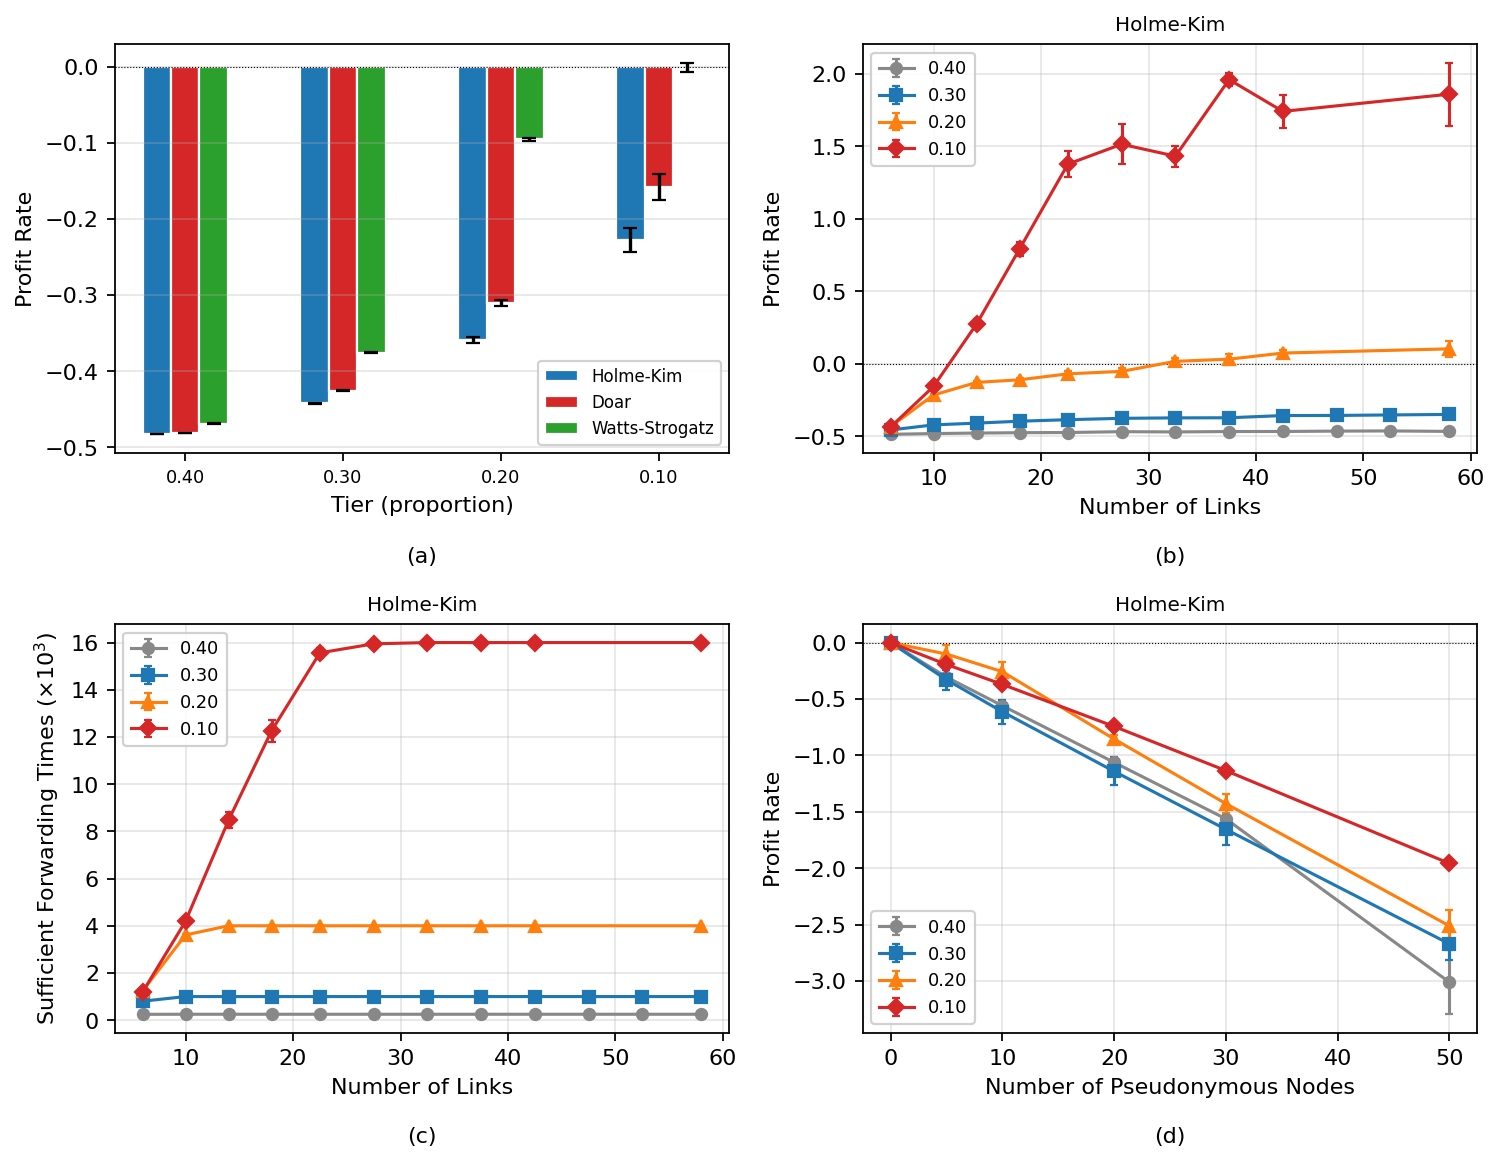
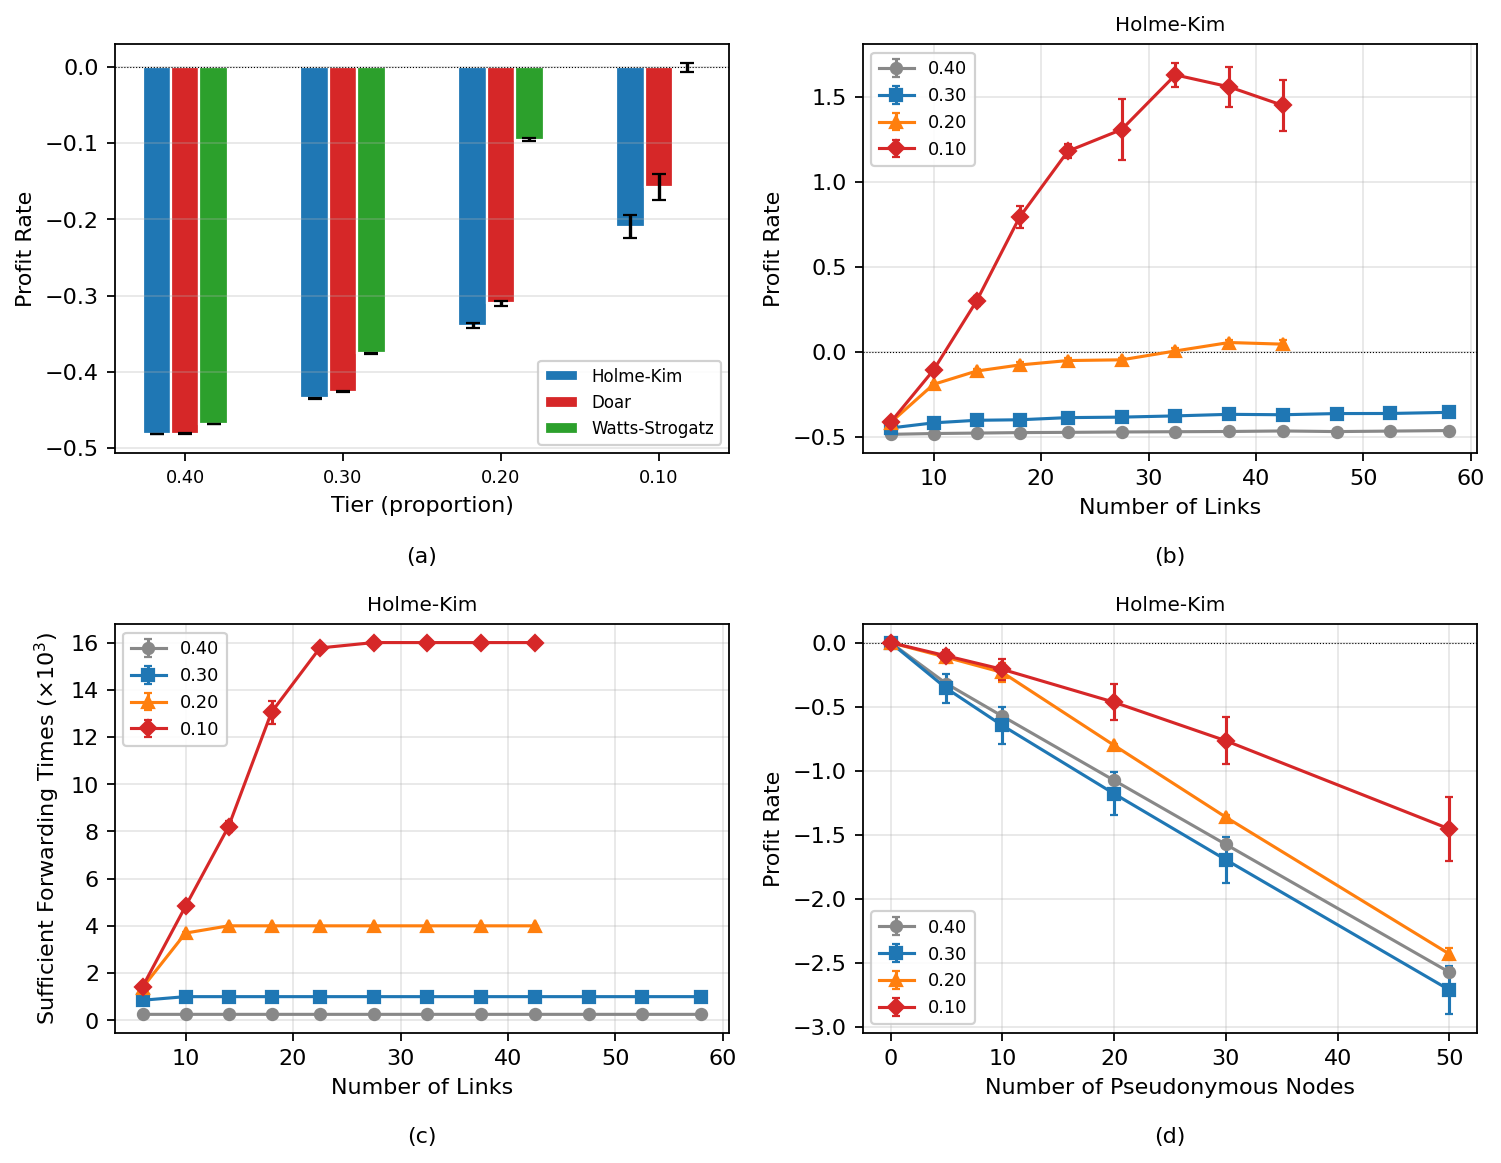
Tune HK topology to clustering 0.068; remove Barabási-Albert reference
- Change make_holme_kim from p=0.5 (~0.22 clustering) to p=0.12
  (~0.061–0.069 at n=2000), directly matching Bitcoin mainnet's
  measured clustering coefficient of 0.068
- Re-run §8.4 fairness and Sybil experiments with updated topology
- Update §8.4 prose: replace "significant local clustering" framing
  and BA comparison with a direct match to Bitcoin measurements;
  update p value, clustering range, unit revenues (1.3% spread),
  and Sybil loss figures from fresh experimental results
- Re-render Fig. 5

https://claude.ai/code/session_01UDyPDhJhcTGMnp9prvSsrv

diff --git a/simulation/experiment_8_4.py b/simulation/experiment_8_4.py
@@ -94,11 +94,11 @@ def make_doar_like(num_nodes: int, rng: np.random.Generator) -> List[np.ndarray]
 
 
 def make_holme_kim(num_nodes: int, rng: np.random.Generator) -> List[np.ndarray]:
-    """Holme-Kim power-law cluster graph (m=4, p=0.5).
-    Adds realistic clustering (~0.22) while preserving scale-free
-    degree distribution and small-world diameter.
+    """Holme-Kim power-law cluster graph (m=4, p=0.12).
+    p=0.12 yields clustering ~0.068, matching the measured Bitcoin mainnet
+    clustering coefficient (Essaid and Ju, Systems MDPI, 2022).
     """
-    G = nx.powerlaw_cluster_graph(num_nodes, 4, 0.5,
+    G = nx.powerlaw_cluster_graph(num_nodes, 4, 0.12,
                                    seed=int(rng.integers(0, 2**31 - 1)))
     return _to_adj(G, num_nodes)
 

diff --git a/supplement/section_8_4_heterogeneous.md b/supplement/section_8_4_heterogeneous.md
@@ -21,26 +21,22 @@ The Holme-Kim model generates networks by combining preferential
 attachment with a triangle-formation step: after each new node attaches
 to m existing nodes, an additional edge is formed to a neighbor of the
 most recently chosen target with probability p. This process produces
-both a scale-free degree distribution and significant local clustering,
-two properties that coexist in many real peer-to-peer networks but are
-not jointly captured by the Barabási-Albert model or the Watts-Strogatz
-model alone. With m = 4 and p = 0.5, the resulting graphs exhibit a
-clustering coefficient of 0.21 to 0.24, an average degree of
-approximately 8, and a diameter of 5 to 6 hops. Measurements of the
-Bitcoin peer-to-peer network report an average clustering coefficient of
-0.068 on the mainnet and a network diameter of 6 hops (Essaid and Ju,
-"Deep learning-based community detection approach on Bitcoin network,"
-Systems, 2022), with the Bitcoin protocol specifying a default of 8
-outbound connections per node (Bitcoin.org, "P2P network guide," 2025)
-and approximately 22 000 reachable nodes (Bitnodes, "Global Bitcoin
-nodes distribution," 2025). The Holme-Kim model matches the diameter
-and average degree of the Bitcoin network while producing higher
-clustering (0.22 vs. 0.068), providing a conservative test: if ITFC
-fairness holds under elevated clustering, it also holds under the lower
-clustering of the real network. The Doar topology of Section 8.1
-(clustering 0.004 to 0.024) and the Watts-Strogatz topology of
-Section 8.2 bracket the measured Bitcoin clustering from below, so the
-three models together span a wide range of clustering levels.
+both a scale-free degree distribution and tunable local clustering.
+Measurements of the Bitcoin peer-to-peer network report an average
+clustering coefficient of 0.068 on the mainnet and a network diameter
+of 6 hops (Essaid and Ju, "Deep learning-based community detection
+approach on Bitcoin network," Systems, 2022), with the Bitcoin protocol
+specifying a default of 8 outbound connections per node (Bitcoin.org,
+"P2P network guide," 2025) and approximately 22 000 reachable nodes
+(Bitnodes, "Global Bitcoin nodes distribution," 2025). With m = 4 and
+p = 0.12, the resulting graphs exhibit a clustering coefficient of
+0.061 to 0.069, an average degree of approximately 8, and a diameter
+of 5 to 6 hops, directly matching the measured Bitcoin mainnet
+properties. The Doar topology of Section 8.1 (clustering 0.004 to
+0.024) provides a complementary test with sparser local structure,
+while the Watts-Strogatz topology of Section 8.2 exercises a narrow
+degree distribution in contrast to the scale-free distribution of the
+Holme-Kim model.
 
 We assign each of the 2000 cloud nodes to one of four resource tiers
 with population proportions 0.40, 0.30, 0.20, and 0.10, linearly spaced
@@ -65,7 +61,7 @@ grouped bars show the mean profit rate for each tier on each topology.
 Within every tier, the three topologies produce closely matched profit
 rates: for example, the proportion-0.40 tier yields −0.48 on
 Holme-Kim, −0.48 on Doar, and −0.47 on Watts-Strogatz, while the
-proportion-0.10 tier yields −0.23, −0.16, and −0.00, respectively. The
+proportion-0.10 tier yields −0.21, −0.16, and −0.00, respectively. The
 per-tier ordering is consistent across all three topologies, with
 higher-capacity tiers achieving higher profit rates. This confirms that
 the ITFC incentive structure is not sensitive to the choice of topology
@@ -78,16 +74,16 @@ Fig. 2(a). The curves separate by tier because a proportion-0.40 node
 cannot deliver all the sufficient forwards its topological position would
 entitle it to, so only the first 250 are credited. Algorithm 2 makes no
 reference to any resource attribute; the separation is entirely due to
-physical capacity ceilings. The per-tier mean unit revenues are 7.047,
-6.877, 6.934, and 7.087 × 10⁻⁵ for proportions 0.40, 0.30, 0.20, and
-0.10, respectively, all within 3.2% of each other. Algorithm 2 pays
+physical capacity ceilings. The per-tier mean unit revenues are 7.288,
+7.351, 7.378, and 7.281 × 10⁻⁵ for proportions 0.40, 0.30, 0.20, and
+0.10, respectively, all within 1.3% of each other. Algorithm 2 pays
 every node the same rate per forward regardless of tier; the only
 difference is how many forwards each node can physically deliver.
 
 Fig. 5(c) confirms this by showing the sufficient forwarding times per
 tier. Proportion-0.40 nodes saturate at their capacity of 250,
 proportion-0.30 nodes at 1000, while proportion-0.10 nodes continue to
-grow with degree. The higher local clustering of the Holme-Kim graph does
+grow with degree. The local clustering of the Holme-Kim graph does
 not alter the saturation pattern, because Algorithm 1 reduces the graph
 to a BFS tree in which local triangles are pruned before incentive
 allocation.
@@ -98,15 +94,12 @@ adversary from every tier creates x ∈ {0, 5, 10, 20, 30, 50}
 pseudonymous nodes forming a clique, with each pseudonymous transaction
 paying 0.1 f0. Every curve stays at or below zero for all x, confirming
 that the attack is unprofitable regardless of the adversary's resources.
-The proportion-0.40 adversary suffers the steepest loss (−3.01 at
-x = 50) because its capacity is already saturated by honest traffic, so
-pseudonymous transactions displace its own relay revenue. The
-proportion-0.10 adversary sees the smallest penalty (−1.96 at x = 50).
-Heterogeneity does not open a new exploitable seam; capacity-bounded
+The proportion-0.30 adversary suffers the steepest loss (−2.71 at
+x = 50). The proportion-0.10 adversary sees the smallest penalty
+(−1.46 at x = 50). Heterogeneity does not open a new exploitable seam; capacity-bounded
 adversaries find the attack harder, not easier.
 
 We conclude that the fairness and attack-resistance guarantees of
 Sections 8.1 and 8.2 extend to heterogeneous cloud node populations
-under multiple network topologies, including the Holme-Kim model which
-combines scale-free degree distribution with significant local
-clustering.
+under multiple network topologies, including the Holme-Kim model tuned
+to match the measured clustering coefficient of the Bitcoin mainnet.

diff --git a/CLAUDE.md b/CLAUDE.md
@@ -42,7 +42,7 @@ results/
 
 ### Topology Models (in experiment_8_4.py)
 - **Doar** (`make_doar_like`): Barabási-Albert backbone with degree capped to [4, 60]. Used in main paper §8.1. Reference: Doar, IEEE GLOBECOM 1996 (ref [42] in main.pdf). Clustering: 0.004–0.024.
-- **Holme-Kim** (`make_holme_kim`): `nx.powerlaw_cluster_graph(n, 4, 0.5)`. Scale-free + triangle formation. Clustering: 0.21–0.24. Diameter: 5–6.
+- **Holme-Kim** (`make_holme_kim`): `nx.powerlaw_cluster_graph(n, 4, 0.12)`. Scale-free + tunable clustering. p=0.12 yields clustering 0.061–0.069, directly matching Bitcoin mainnet (0.068). Diameter: 5–6.
 - **Watts-Strogatz** (`make_watts_strogatz`): `nx.watts_strogatz_graph(n, k, 0.1)`. Used in main paper §8.2 (ref [43]). Narrow degree distribution.
 
 ### Four Resource Tiers (§8.4 heterogeneity model)
@@ -102,12 +102,12 @@ python3 -m simulation.plot_fig6   # -> results/fig6_section_8_5.{pdf,png}
 
 ### Fairness (fairness.json, 30,000 records)
 - Per-tier mean profit rates are similar across all 3 topologies (HK, Doar, WS)
-- HK per-tier unit revenues: 7.047, 6.877, 6.934, 7.087 × 10⁻⁵ (within 3.2%)
+- HK per-tier unit revenues: 7.288, 7.351, 7.378, 7.281 × 10⁻⁵ (within 1.3%)
 - Doar per-tier unit revenues: 7.652, 7.659, 7.630, 7.613 × 10⁻⁵ (within 0.7%)
 
 ### Sybil (sybil.json, 144 records)
 - All profit rates ≤ 0 for all tiers on both HK and WS substrates
-- HK substrate: tier 0.40 at x=50: −3.01; tier 0.10 at x=50: −1.96
+- HK substrate: tier 0.30 at x=50: −2.71 (steepest); tier 0.10 at x=50: −1.46 (smallest)
 
 ### Performance (§8.5)
 - Latency slope: ~5.5 × 10⁻³ ms/node for both Doar and HK (<1% difference)